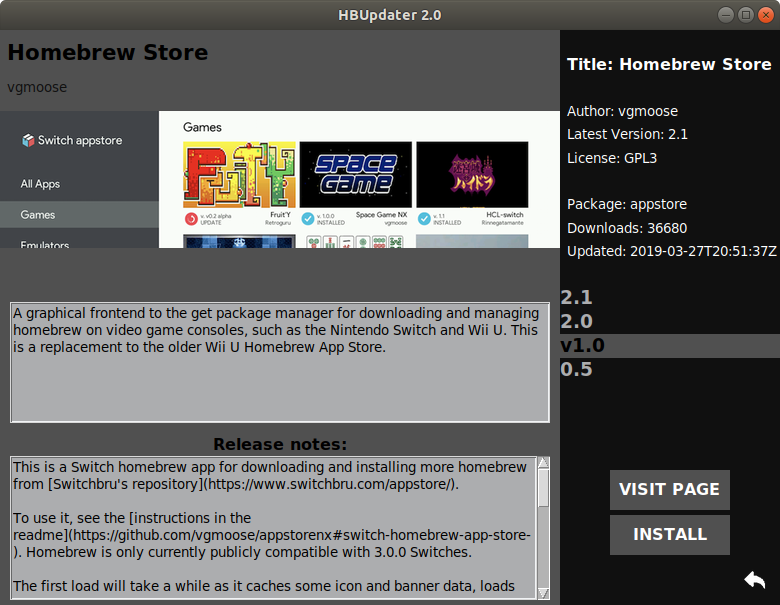
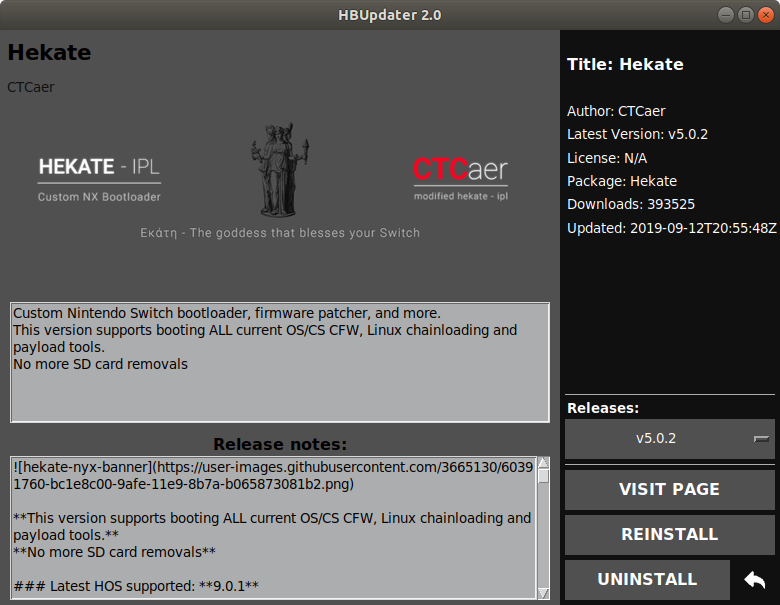
Improved layout of details and injector page, readme cleanup, updated readme images

diff --git a/pages/detailpage.py b/pages/detailpage.py
@@ -1,4 +1,5 @@
 import os
+import tkinter as tk
 import tkinter.filedialog
 import modules.locations as locations
 from widgets import ThemedFrame, ThemedLabel, ThemedListbox, activeFrame, scrolledText, button, tooltip, ScrolledThemedListBox
@@ -19,55 +20,62 @@ class detailPage(activeFrame):
         self.selected_version = None
         self.version_index = None
         self.repo = None
+        self.package = None
 
         self.bind("<Configure>", self.on_configure)
 
-        #------------------------------
         self.column = ThemedFrame(self, background = style.color_1)
         self.column.place(relx = 1, rely = 0, width = style.sidecolumnwidth, relheight = 1, x = - style.sidecolumnwidth)
 
         self.column_body = ThemedFrame(self.column, background = style.color_1)
         self.column_body.place(relwidth=1, relheight=1)
 
-
         self.column_title = ThemedLabel(self.column_body,"",anchor="w",label_font=style.mediumboldtext, foreground = style.w, background = style.color_1)
-        self.column_title.place(x = 5, width = - 5, rely = 0, relwidth = 1, height = style.detailspagemultiplier)
+        self.column_title.place(x = style.offset, width = - style.offset, rely = 0, relwidth = 1, height = style.detailspagemultiplier)
 
-
-        #------------------------------
         self.column_author = ThemedLabel(self.column_body,"",anchor="w",label_font=style.smalltext, foreground = style.w, background = style.color_1)
-        self.column_author.place(x = 5, width = - 5, y = style.detailspagemultiplier, relwidth = 1, height = 0.333 * style.detailspagemultiplier)
+        self.column_author.place(x = style.offset, width = - style.offset, y = style.detailspagemultiplier, relwidth = 1, height = 0.333 * style.detailspagemultiplier)
 
         self.column_version = ThemedLabel(self.column_body,"",anchor="w",label_font=style.smalltext, foreground = style.w, background = style.color_1)
-        self.column_version.place(x = 5, width = - 5, y = 1.333 * style.detailspagemultiplier, relwidth = 1, height = 0.333 * style.detailspagemultiplier)
+        self.column_version.place(x = style.offset, width = - style.offset, y = 1.333 * style.detailspagemultiplier, relwidth = 1, height = 0.333 * style.detailspagemultiplier)
 
         self.column_license = ThemedLabel(self.column_body,"",anchor="w",label_font=style.smalltext, foreground = style.w, background = style.color_1)
-        self.column_license.place(x = 5, width = - 5, y = 1.666 * style.detailspagemultiplier, relwidth = 1, height = 0.333 * style.detailspagemultiplier)
-        #------------------------------
+        self.column_license.place(x = style.offset, width = - style.offset, y = 1.666 * style.detailspagemultiplier, relwidth = 1, height = 0.333 * style.detailspagemultiplier)
 
-        #------------------------------
         self.column_package = ThemedLabel(self.column_body,"",anchor="w",label_font=style.smalltext, foreground = style.w, background = style.color_1)
-        self.column_package.place(x = 5, width = - 5, y = 2.333 * style.detailspagemultiplier, relwidth = 1, height = 0.333 * style.detailspagemultiplier)
+        self.column_package.place(x = style.offset, width = - style.offset, y = 2.000 * style.detailspagemultiplier, relwidth = 1, height = 0.333 * style.detailspagemultiplier)
 
         self.column_downloads = ThemedLabel(self.column_body,"",anchor="w",label_font=style.smalltext, foreground = style.w, background = style.color_1)
-        self.column_downloads.place(x = 5, width = - 5, y = 2.666 * style.detailspagemultiplier, relwidth = 1, height = 0.333 * style.detailspagemultiplier)
+        self.column_downloads.place(x = style.offset, width = - style.offset, y = 2.333 * style.detailspagemultiplier, relwidth = 1, height = 0.333 * style.detailspagemultiplier)
 
         self.column_updated = ThemedLabel(self.column_body,"",anchor="w",label_font=style.smalltext, foreground = style.w, background = style.color_1)
-        self.column_updated.place(x = 5, width = - 5, y = 3.00 * style.detailspagemultiplier, relwidth = 1, height = 0.333 * style.detailspagemultiplier)
-        #------------------------------
+        self.column_updated.place(x = style.offset, width = - style.offset, y = 2.666 * style.detailspagemultiplier, relwidth = 1, height = 0.333 * style.detailspagemultiplier)
 
-        self.releases_listbox = ScrolledThemedListBox(self.column_body)
-        self.releases_listbox.configure(activestyle = "none")
-        self.releases_listbox.place(relwidth = 1, y=3.66*style.detailspagemultiplier, relheight = 1, height = - (3.66*style.detailspagemultiplier + 3 * (style.buttonsize + style.offset) + style.offset))
+        self.column_separator_top = ThemedLabel(self.column_body, "", background=style.lg)
+        self.column_separator_top.place(rely=1,relwidth = 1, x = + style.offset, y = - 3 * (style.buttonsize + style.offset) - 3 * style.offset - style.buttonsize - 1 - 0.5 * style.buttonsize, width = - 2 * style.offset, height = 1)
 
-        self.releases_listbox.bind('<<ListboxSelect>>',self.select_version)
+        self.tags_menu_label = ThemedLabel(self.column_body,"Releases:",anchor="w",label_font=style.smallboldtext, foreground = style.w, background = style.color_1)
+        self.tags_menu_label.place(rely=1,relwidth = 1, x = + style.offset, y = - 3 * (style.buttonsize + style.offset) - 2 * style.offset - style.buttonsize - 1 - 0.5 * style.buttonsize, width = - 2 * style.offset, height = 0.5 * style.buttonsize)
+
+        self.TAGS_LIST = ["You shouldn't be seeing this"]
+        self.selected_tag_name = tk.StringVar()
+        self.selected_tag_name.set(None)
+        self.tags_dropdown = tk.OptionMenu(self.column_body ,self.selected_tag_name, *self.TAGS_LIST)
+        self.tags_dropdown.configure(foreground = style.w)
+        self.tags_dropdown.configure(background = style.color_2)
+        self.tags_dropdown.configure(highlightthickness = 0)
+        self.tags_dropdown.configure(borderwidth = 0)
+        self.tags_dropdown.place(rely=1,relwidth = 1, x = + style.offset, y = - 3 * (style.buttonsize + style.offset) - 2 * style.offset - style.buttonsize - 1, width = - 2 * style.offset, height = style.buttonsize)
+
+        self.column_separator_bot = ThemedLabel(self.column_body, "", background=style.lg)
+        self.column_separator_bot.place(rely=1,relwidth = 1, x = + style.offset, y = - 3 * (style.buttonsize + style.offset) - style.offset - 1, width = - 2 * style.offset, height = 1)
 
         self.column_open_url_button = button(self.column_body, 
             callback = self.trigger_open_tab, 
             text_string = "VISIT PAGE", 
             font=style.mediumboldtext, 
             background=style.color_2,
-            ).place(rely=1,relx=0.5,x = - 1.5 * (style.buttonsize), y = - 3 * (style.buttonsize + style.offset), width = 3 * style.buttonsize, height = style.buttonsize)
+            ).place(rely=1,relwidth = 1, x = + style.offset, y = - 3 * (style.buttonsize + style.offset), width = - 2 * style.offset, height = style.buttonsize)
 
         self.column_install_button = button(self.column_body, 
             callback = self.trigger_install, 
@@ -75,7 +83,7 @@ class detailPage(activeFrame):
             font=style.mediumboldtext, 
             background=style.color_2
             )
-        self.column_install_button.place(rely=1,relx=0.5,x = - 1.5 * (style.buttonsize), y = - 2 * (style.buttonsize + style.offset), width = 3 * style.buttonsize, height = style.buttonsize)
+        self.column_install_button.place(rely=1,relwidth = 1, x = + style.offset, y = - 2 * (style.buttonsize + style.offset), width = - 2 * style.offset, height = style.buttonsize)
 
         self.column_uninstall_button = button(self.column_body, 
             callback = self.trigger_uninstall, 
@@ -126,13 +134,30 @@ class detailPage(activeFrame):
 
         self.yesnoPage = yesnoPage(self)
 
+    def update_option_menu(self, options):
+        menu = self.tags_dropdown['menu']
+        menu.delete(0, 'end')
+        for string in options:
+            menu.add_command(label=string, 
+                             command=lambda value=string: self.on_menu_update(value))
+        self.on_menu_update(options[0])
+
+    def on_menu_update(self, option):
+        self.selected_tag_name.set(option)
+        self.select_version(option)
+
     def update_page(self,repo):
         self.selected_version = None
         self.repo = repo
+
         try:
             package = repo["store_equivalent"]
         except:
             package = repo["software"]
+
+        self.package = package
+
+        self.controller.async_threader.do_async(self.do_update_banner)
 
         github_content = repo["github_content"]
 
@@ -169,7 +194,7 @@ class detailPage(activeFrame):
         #Hides or places the uninstalll button if not installed or installed respectively
         #get_package_entry returns none if no package is found or if the sd path is not set
         if self.appstore_handler.get_package_entry(package):
-            self.column_uninstall_button.place(rely=1,relx=0.5,x = - 1.5 * (style.buttonsize), y = - 1 * (style.buttonsize + style.offset), width = 3 * style.buttonsize, height = style.buttonsize)
+            self.column_uninstall_button.place(rely=1,relwidth = 1, x = + style.offset, y = - 1 * (style.buttonsize + style.offset), width = - (3 * style.offset + style.buttonsize), height = style.buttonsize)
             if self.column_install_button:
                 if self.appstore_handler.clean_version(self.appstore_handler.get_package_version(package), package) > self.appstore_handler.clean_version(self.appstore_handler.get_package_version(version), package):
                     self.column_install_button.settext("UPDATE")
@@ -180,42 +205,30 @@ class detailPage(activeFrame):
             if self.column_install_button:
                 self.column_install_button.settext("INSTALL")
 
-        def do_update_banner():
-            self.bannerimage = getScreenImage(package)
-            if self.bannerimage:
-                self.update_banner(self.bannerimage)
-            else:
-                self.update_banner(locations.notfoundimage)
-                print("failed to download screenshot for {}".format(package))
+        tags = []
+        for release in self.repo["github_content"]:
+            tags.append(release["tag_name"])
+        self.update_option_menu(tags)
 
-        self.update_releases_listbox()
-            
-        self.controller.async_threader.do_async(do_update_banner, [])
-
-    def select_version(self, event):
+    def select_version(self, option):
         try:
-            widget = event.widget
-            selection=widget.curselection()
-            picked = widget.get(selection[0])
-            self.selected_version = picked
+            self.selected_version = option
             self.version_index = self.controller.appstore_handler.get_tag_index(self.repo["github_content"], self.selected_version)
             self.update_release_notes()
         except Exception as e:
-            print(e)
+            # print(e)
+            pass
 
     def on_configure(self, event=None):
         if self.repo:
-            repo = self.repo
-            try:
-                package = repo["store_equivalent"]
-            except:
-                package = repo["software"]
+            self.do_update_banner(self.package)
 
-            self.bannerimage = getScreenImage(package)
-            if self.bannerimage:
-                self.update_banner(self.bannerimage)
-            else:
-                self.update_banner(locations.notfoundimage)
+    def do_update_banner(self):
+        self.bannerimage = getScreenImage(self.package)
+        if self.bannerimage:
+            self.update_banner(self.bannerimage)
+        else:
+            self.update_banner(locations.notfoundimage)
 
     def update_banner(self,image_path):
         maxheight = self.content_banner_image_frame.winfo_height()
@@ -236,15 +249,6 @@ class detailPage(activeFrame):
 
             self.content_banner_image.configure(image=art_image)
             self.content_banner_image.image = art_image
-
-    def update_releases_listbox(self):
-        self.releases_listbox.delete(0,"end")
-        for release in self.repo["github_content"]:
-            tag = release["tag_name"]
-            self.releases_listbox.insert("end",tag)
-        self.releases_listbox.select_set(0) #sets focus on the first item in listbox
-        self.releases_listbox.event_generate("<<ListboxSelect>>")
-        self.update_release_notes()
 
     def update_release_notes(self):
         notes = self.repo["github_content"][self.version_index]["body"]

diff --git a/pages/injectorpage.py b/pages/injectorpage.py
@@ -12,12 +12,10 @@ class injectorPage(detailPage):
 				
 		self.column_inject_button = None		
 		detailPage.__init__(self,parent,controller)
-		self.column_package.place_forget()
+		# self.column_package.place_forget()
 
 		self.column_installed_version = ThemedLabel(self.column_body,"",anchor="w",label_font=style.smalltext, foreground = style.w, background = style.color_1)
-		self.column_installed_version.place(x = 5, width = - 5, y = 3.666 * style.detailspagemultiplier, relwidth = 1, height = 0.333 * style.detailspagemultiplier)
-
-		self.releases_listbox.place(relwidth = 1, y=4.00*style.detailspagemultiplier, relheight = 1, height = - (4*style.detailspagemultiplier + 3 * (style.buttonsize + style.offset) + style.offset))
+		self.column_installed_version.place(x = 5, width = - 5, y = 3.333 * style.detailspagemultiplier, relwidth = 1, height = 0.333 * style.detailspagemultiplier)
 
 	def update_page(self,repo):
 		self.selected_version = None
@@ -27,6 +25,9 @@ class injectorPage(detailPage):
 			package = repo["store_equivalent"]
 		except:
 			package = repo["software"]
+
+		self.package = package
+		self.controller.async_threader.do_async(self.do_update_banner)
 
 		github_content = repo["github_content"]
 
@@ -47,9 +48,7 @@ class injectorPage(detailPage):
 		else:
 			self.column_installed_version.set("Not downloaded")
 
-
-
-		self.column_package.set("Package: {}".format(package))
+		self.column_package.set("Payload package: {}".format(package))
 		self.column_downloads.set("Downloads: {}".format(repo["downloads"]))
 		self.column_updated.set("Updated: {}".format(github_content[0]["created_at"]))
 
@@ -75,38 +74,20 @@ class injectorPage(detailPage):
 				background=style.color_2
 			)
 
+		tags = []
+		for release in self.repo["github_content"]:
+			tags.append(release["tag_name"])
+		self.update_option_menu(tags)
+
 		#Hides or places the uninstalll button if not installed or installed respectively
 		#get_package_entry returns none if no package is found or if the sd path is not set
 		if self.local_packages_handler.get_package_entry(package):
-			self.column_inject_button.place(rely=1,relx=0.5,x = - 1.5 * (style.buttonsize), y = - 1 * (style.buttonsize + style.offset), width = 3 * style.buttonsize, height = style.buttonsize)
+			self.column_inject_button.place(rely=1,relwidth = 1, x = + style.offset, y = - 1 * (style.buttonsize + style.offset), width = - (3 * style.offset + style.buttonsize), height = style.buttonsize)
 			self.column_install_button.settext("CHANGE")
 		else:
 			self.column_inject_button.place_forget()
 			if self.column_install_button:
 				self.column_install_button.settext("Download")
-
-		def do_update_banner():
-			self.bannerimage = getScreenImage(package)
-			if self.bannerimage:
-				self.update_banner(self.bannerimage)
-			else:
-				self.update_banner(notfoundimage)
-				print("failed to download screenshot for {}".format(package))
-
-		self.update_releases_listbox()
-			
-		self.controller.async_threader.do_async(do_update_banner)
-
-	def select_version(self, event):
-		try:
-			widget = event.widget
-			selection=widget.curselection()
-			picked = widget.get(selection[0])
-			self.selected_version = picked
-			self.version_index = self.controller.local_packages_handler.get_tag_index(self.repo["github_content"], self.selected_version)
-			self.update_release_notes()
-		except Exception as e:
-			print(e)
 
 	def trigger_install(self):
 		self.controller.async_threader.do_async(self.local_packages_handler.install_package, [self.repo, self.version_index, self.progress_bar.update, self.reload_function, self.progress_bar.set_title], priority = "high")
@@ -114,7 +95,6 @@ class injectorPage(detailPage):
 	def trigger_inject(self):
 		toolsfolder = os.path.join(sys.path[0],"tools")
 		payloadfolder = os.path.join(toolsfolder, self.repo["install_subfolder"])
-		print(self.repo["payload"])
 		payload = None
 		for item in os.listdir(payloadfolder):
 			if os.path.isfile(os.path.join(payloadfolder, item)):

diff --git a/pages/appstorepage.py b/pages/appstorepage.py
@@ -94,6 +94,7 @@ class appstorePage(activeFrame):
         self.selected_sort_method = tk.StringVar()
         self.selected_sort_method.set(SORT_OPTIONS[0])
         self.content_frame_header_sort_method_dropdown = tk.OptionMenu(self.content_frame_header,self.selected_sort_method,*SORT_OPTIONS)
+        self.content_frame_header_sort_method_dropdown.configure(foreground = style.w)
         self.content_frame_header_sort_method_dropdown.configure(background = style.color_2)
         self.content_frame_header_sort_method_dropdown.configure(highlightthickness = 0)
         self.content_frame_header_sort_method_dropdown.configure(borderwidth = 0)

diff --git a/readme.md b/readme.md
@@ -21,7 +21,7 @@ HBUpdater is a one-stop-shop for managing and updating your Nintendo Switch Home
 ![Built-in RCM injector (Uses fusee-launcher)](img/injector.png)
 
 # Requirements:
-    Works on: Mac, Window, Linux
+    Works on: macOS, Windows, Linux
     Python 3.6 or greater
 
 # How to use:
@@ -43,7 +43,7 @@ HBUpdater is a one-stop-shop for managing and updating your Nintendo Switch Home
 - Navigate to the directory in a terminal
 - Type `python HBUpdaterGUI.py`
   - If you are missing dependencies do the following:
-  - sudo apt-get install python3 python3-pip python3-tk python3-pil.imagetk
+  - `sudo apt install python3 python3-pip python3-tk python3-pil.imagetk`
 - If you don't know how to do this you should probably be using Windows.
 - For access to USB functions you must run python with elevated privledges (sudo)
 
